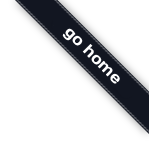
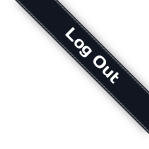
finished creating a logout div that displays and hides at the appropriate time

Changed region(s): [[0.4027, 0.1611, 0.8054, 0.5638]]

diff --git a/templates/index.html b/templates/index.html
@@ -20,9 +20,12 @@
 	    <link rel="stylesheet" href="../css/print.css" type="text/css" media="print">
 	</head>
 	<body id="multiPost">
-		<a href="/"><img style="position: absolute; top: 0; right: 0; border: 0;" src="../img/home.png" alt="go home"></a>
-
-		<div id="logout" style="margin-left:30px; margin-top:10px; position:absolute;"><a href="/logout">{{logout}}</a></div>
+		<!-- logout section -->
+		<a href="/logout">
+			<img id="logout"style="position: absolute; top: 0; right: 0; border: 0;" src="../img/home.png" alt="log out">
+		</a>
+		<div id="isLogout" style="display: none !important;">{{logout}}</div>
+		<!-- end logout section -->
 		<div id="container">
 
 		    <div id="imageBox">
@@ -133,6 +136,15 @@
 
 				var particle = new Particles(x, y);
 			}, 2500);
+
+			//function to show or hide logout banner, based on a string pushed into the isLogout div by the server
+			if ( $('#isLogout').text() == 'logout'){
+				// console.log("logout here!");
+				$('#logout').show();
+			}
+			else{
+				$('#logout').hide();
+			}
 		});
 	    	// end particles, and start menus
 
@@ -210,6 +222,9 @@
 
 		ga('create', 'UA-11781420-6', 'phelan-blog.appspot.com');
 		ga('send', 'pageview');
+	</script>
+	<script>
+		
 	</script>
 		</div><!-- end content wrapper -->
 	</body>

diff --git a/css/style.css b/css/style.css
@@ -74,8 +74,8 @@ body {
 
 /*log out thing*/
 .logout {
-	position: absolute;
-	margin-left: 30px !important;
+	/*position: absolute;*/
+	/*margin-left: 30px !important;*/
 }
 
 /*permalink styling*/
